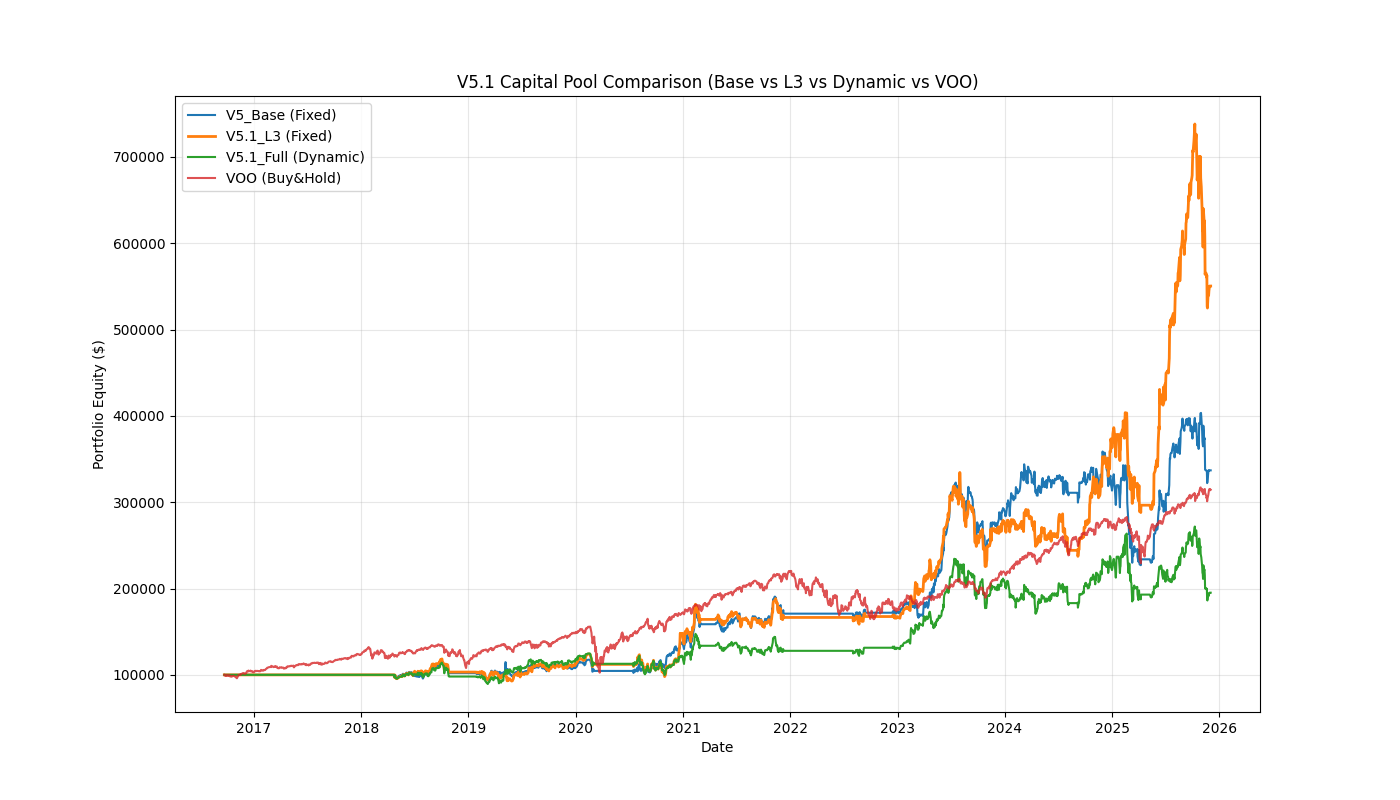
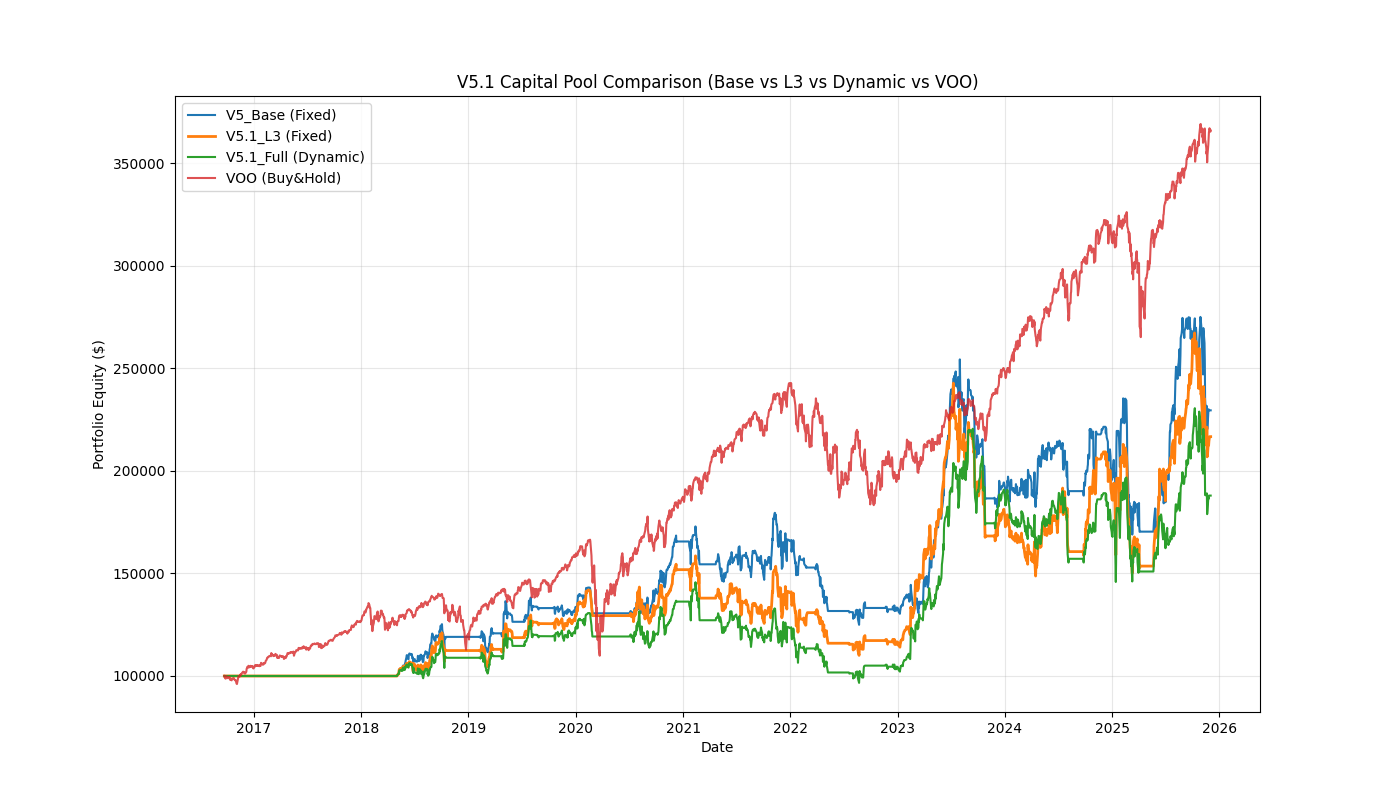
fix V5.1

diff --git a/V5.1/ml_pipeline/05_backtest_minimalist.py b/V5.1/ml_pipeline/05_backtest_minimalist.py
@@ -1,0 +1,154 @@
+import pandas as pd
+import numpy as np
+import os
+import matplotlib.pyplot as plt
+
+# --- Configuration ---
+INITIAL_CAPITAL = 100_000.0
+MAX_POSITIONS = 5
+SLIPPAGE = 0.0005
+HOLD_DAYS = 5
+RSI_THRESHOLD = 10
+
+def load_data(base_dir):
+    features_dir = os.path.join(base_dir, 'features')
+    stock_path = os.path.join(features_dir, 'stock_features_L0.parquet')
+    if not os.path.exists(stock_path):
+        raise FileNotFoundError(f"Missing {stock_path}")
+    print(f"Loading stock features from {stock_path}...")
+    stock_df = pd.read_parquet(stock_path)
+    return stock_df
+
+class MinimalistBacktester:
+    def __init__(self, stock_df, initial_capital=100000.0):
+        self.stock_df = stock_df
+        self.initial_capital = initial_capital
+        self.cash = initial_capital
+        self.positions = {} 
+        self.equity_curve = []
+        self.trade_log = []
+        self.daily_data = self.stock_df.reorder_levels(['timestamp', 'symbol']).sort_index()
+        self.all_dates = self.daily_data.index.get_level_values('timestamp').unique().sort_values()
+        
+    def run(self):
+        print(f"Running Final Minimalist Backtest ({self.all_dates[0].date()} to {self.all_dates[-1].date()})...")
+        print("Logic: RSI(2) < 10 & Price > SMA(200) | No Pyramiding | Hold 5 Days")
+        
+        for i, current_date in enumerate(self.all_dates):
+            try:
+                today_bar = self.daily_data.loc[current_date]
+            except KeyError:
+                continue
+                
+            # 1. Update Equity
+            current_equity = self.cash
+            for sym, pos in self.positions.items():
+                if sym in today_bar.index:
+                    price = today_bar.loc[sym]['Close']
+                    if pd.isna(price): price = pos['entry_price']
+                    current_equity += pos['shares'] * price
+                else:
+                    current_equity += pos['shares'] * pos['entry_price']
+            
+            # 2. Exit Logic
+            to_sell = []
+            for symbol, pos in self.positions.items():
+                pos['days_held'] += 1
+                if pos['days_held'] >= HOLD_DAYS:
+                    if symbol in today_bar.index:
+                        exit_price = today_bar.loc[symbol]['Close'] * (1 - SLIPPAGE)
+                        if pd.isna(exit_price): continue
+                        
+                        revenue = pos['shares'] * exit_price
+                        self.cash += revenue
+                        
+                        ret = (exit_price / pos['entry_price']) - 1
+                        self.trade_log.append({
+                            'symbol': symbol,
+                            'entry_date': pos['entry_date'],
+                            'exit_date': current_date,
+                            'return': ret
+                        })
+                        to_sell.append(symbol)
+            for sym in to_sell:
+                del self.positions[sym]
+                
+            # 3. Entry Logic
+            open_slots = MAX_POSITIONS - len(self.positions)
+            if open_slots > 0 and self.cash > 0:
+                candidates = today_bar[
+                    (today_bar['RSI_2'] < RSI_THRESHOLD) & 
+                    (today_bar['Dist_SMA_200'] > 0)
+                ]
+                
+                if not candidates.empty:
+                    top_picks = candidates.sort_values('RSI_2', ascending=True)
+                    
+                    target_per_pos = current_equity / MAX_POSITIONS
+                    
+                    for symbol, row in top_picks.iterrows():
+                        if open_slots <= 0: break
+                        
+                        # [FIX] 防止重複買入導致覆蓋持倉
+                        if symbol in self.positions:
+                            continue
+                            
+                        price = row['Close']
+                        if pd.isna(price) or price <= 0: continue
+                        
+                        buy_price = price * (1 + SLIPPAGE)
+                        buy_amt = min(self.cash, target_per_pos)
+                        shares = int(buy_amt / buy_price)
+                        
+                        if shares > 0:
+                            self.cash -= shares * buy_price
+                            self.positions[symbol] = {
+                                'shares': shares,
+                                'entry_price': buy_price,
+                                'entry_date': current_date,
+                                'days_held': 0
+                            }
+                            open_slots -= 1
+                            
+            self.equity_curve.append({'timestamp': current_date, 'equity': current_equity})
+            
+        return pd.DataFrame(self.equity_curve).set_index('timestamp'), pd.DataFrame(self.trade_log)
+
+def main():
+    SCRIPT_DIR = os.path.dirname(os.path.abspath(__file__))
+    ANALYSIS_DIR = os.path.join(SCRIPT_DIR, 'analysis')
+    os.makedirs(ANALYSIS_DIR, exist_ok=True)
+    
+    stock_df = load_data(SCRIPT_DIR)
+    backtester = MinimalistBacktester(stock_df, initial_capital=INITIAL_CAPITAL)
+    equity, trades = backtester.run()
+    
+    if equity.empty:
+        print("No trades generated.")
+        return
+        
+    total_ret = (equity.iloc[-1]['equity'] / INITIAL_CAPITAL) - 1
+    daily_ret = equity['equity'].pct_change().dropna()
+    sharpe = daily_ret.mean() / daily_ret.std() * np.sqrt(252) if daily_ret.std() > 0 else 0
+    max_dd = (equity['equity'] / equity['equity'].cummax() - 1).min()
+    win_rate = (trades['return'] > 0).mean() if not trades.empty else 0
+    
+    print("\n=== Final Minimalist Baseline Result ===")
+    print(f"Total Return: {total_ret:.2%}")
+    print(f"Sharpe Ratio: {sharpe:.2f}")
+    print(f"Max Drawdown: {max_dd:.2%}")
+    print(f"Win Rate:     {win_rate:.2%}")
+    print(f"Total Trades: {len(trades)}")
+    print(f"Final Equity: ${equity.iloc[-1]['equity']:,.2f}")
+    
+    plt.figure(figsize=(12, 6))
+    plt.plot(equity.index, equity['equity'], label=f'Baseline (SR: {sharpe:.2f})')
+    plt.title('V5 Baseline Equity Curve (Bug Fixed)')
+    plt.xlabel('Date')
+    plt.ylabel('Equity ($)')
+    plt.legend()
+    plt.grid(True)
+    plt.savefig(os.path.join(ANALYSIS_DIR, 'baseline_equity_curve.png'))
+
+if __name__ == "__main__":
+    main()

diff --git a/V5.1/ml_pipeline/00_download_data_v5.py b/V5.1/ml_pipeline/00_download_data_v5.py
@@ -32,7 +32,7 @@ def download_data(tickers, start_date, end_date, interval, prepost=False):
                 start=start_date,
                 end=end_date,
                 interval=interval,
-                auto_adjust=False,
+                auto_adjust=True,
                 prepost=prepost,
                 threads=True,
                 timeout=30
